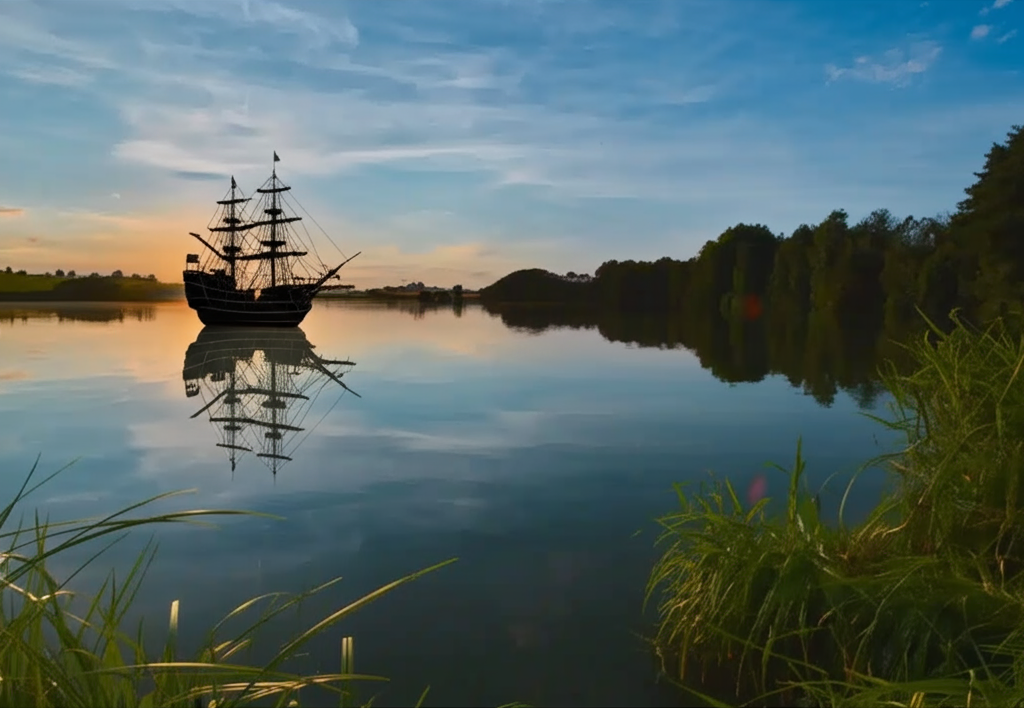
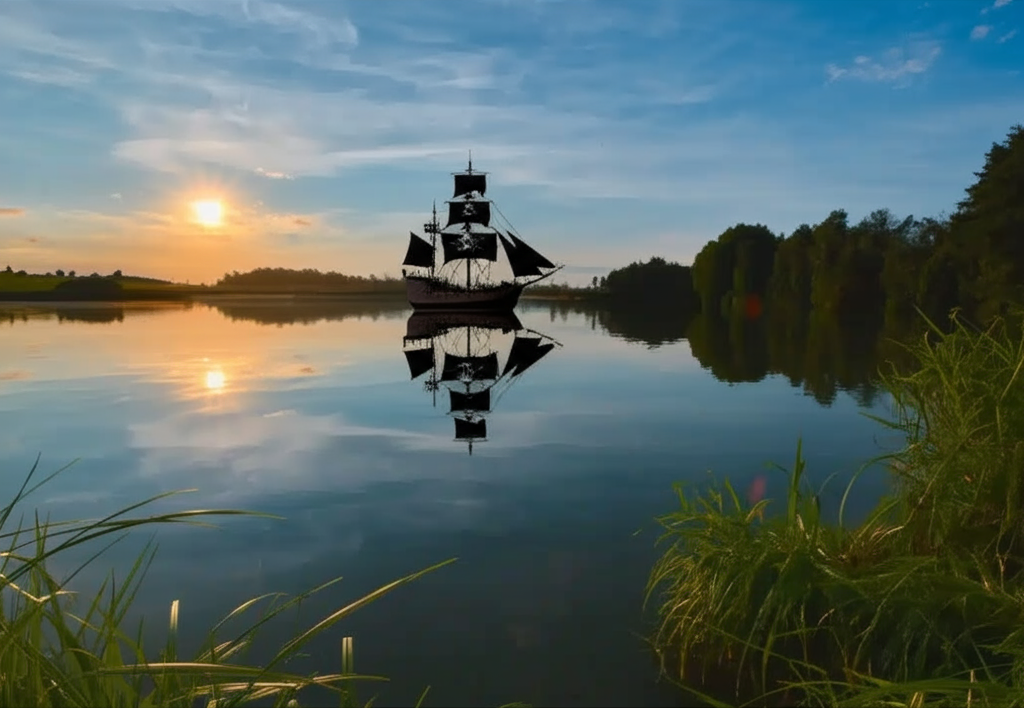
fix: fix genkit code

diff --git a/genkit.ts b/genkit.ts
@@ -32,11 +32,22 @@ async function editImage() {
       },
     ],
     config: {
-      responseModalities: ["IMAGE"],
+      version: "gemini-2.0-flash-exp-image-generation",
+      responseModalities: ["image", "text"],
     },
   });
 
-  console.log(response.text);
+  const dataUrlResponse = response.message?.content[0].media?.url;
+
+  if (!dataUrlResponse) {
+    throw new Error("No image returned from the AI.");
+  }
+  // Decode the base64 image and save it
+  const base64Data = dataUrlResponse.split(",")[1];
+  const buffer = Buffer.from(base64Data, "base64");
+  const outputPath = path.join(__dirname, "edited_image.png");
+  await fs.writeFile(outputPath, buffer);
+  console.log("Image saved to", outputPath);
 }
 
-editImage().catch(console.error);
+await editImage().catch(console.error);
